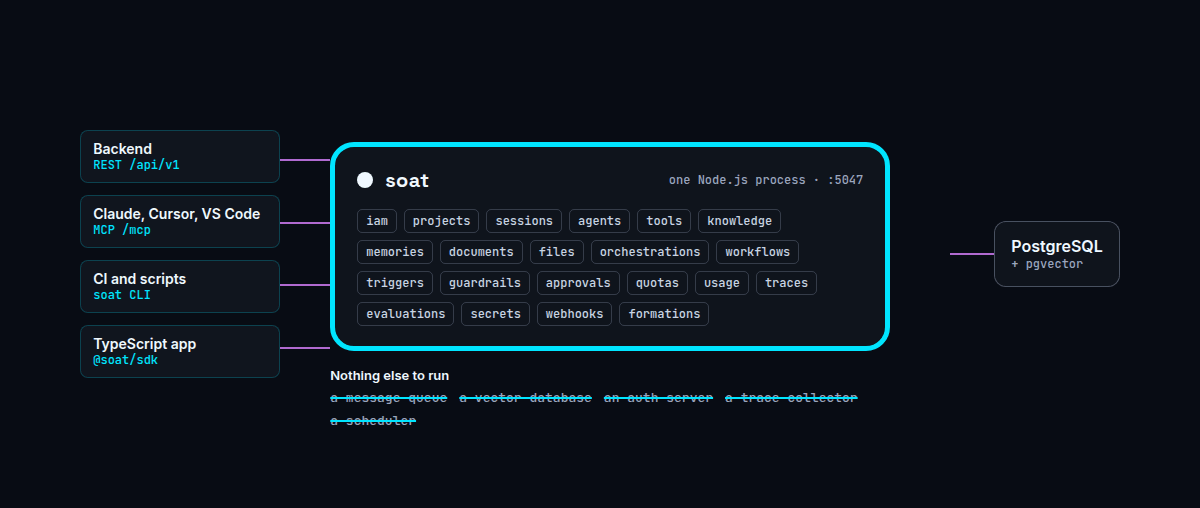
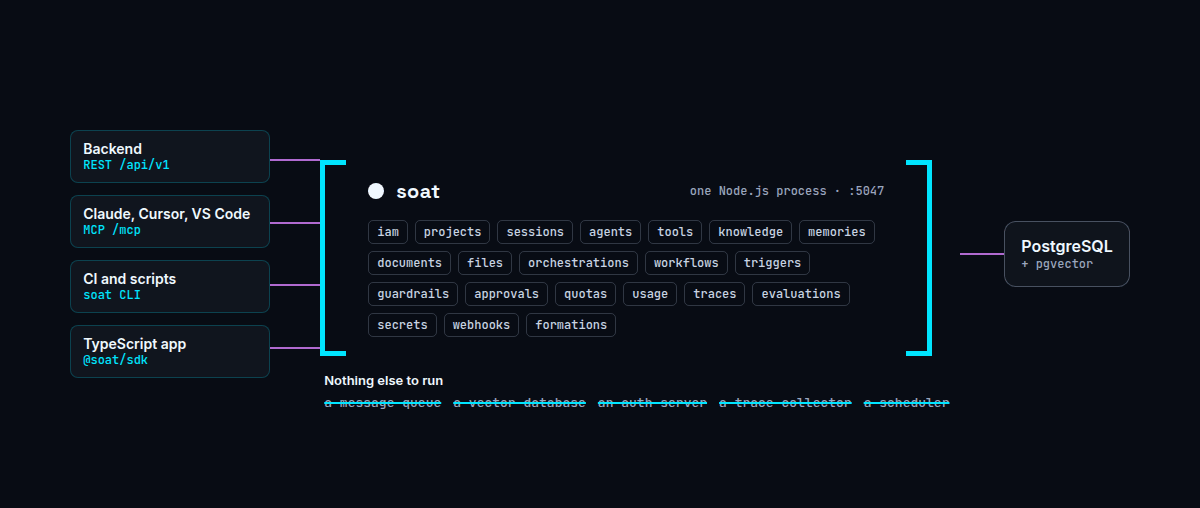
feat(brand): draw the mark as brackets, [•]
A closed rounded square with a centred dot reads as another company's
camera glyph, most of all when the symbol stands alone (favicon, avatar,
the closing band). The process is now a core held between two square
brackets: the open sides are what make the mark SOAT's.

- Wordmark S[•]AT: the brackets are punctuation, drawn lighter than the
  letters (96 units against the 132-unit stem), with 200-unit arms and a
  110-unit core. Chosen side by side at 16–64 px against heavier strokes,
  which close into a box at small sizes, and against shorter arms, which
  read as two I's.
- Symbol [•] with the wordmark's proportions; favicon.svg is a
  pixel-aligned 16 px cut (2 px stems, 4 px arms, 3 px core radius).
- Rasters regenerated from the masters: avatar (soat-logo.png), transparent
  symbol, favicon.ico, apple-touch-icon, the 192 px manifest icon, the social
  card and the README diagram, which now draw the process between brackets.
- The closing band of the homepage no longer shows the mark at scale.
- soat-design: the boundary is a pair of brackets; never close them into
  a box.

Claude-Session: https://claude.ai/code/session_011tJHFPscpAX6kabaQeNigZ

diff --git a/packages/website/src/components/HomepageFinalCta/styles.module.css b/packages/website/src/components/HomepageFinalCta/styles.module.css
@@ -6,49 +6,6 @@
   text-align: center;
 }
 
-/* The symbol, large and faint, cropped by the right edge so its core sits
-   clear of the closing statement: the one place the page shows the mark at
-   scale. The band is dark in both colour modes. */
-.backdrop {
-  position: absolute;
-  inset: 0;
-  display: flex;
-  align-items: center;
-  justify-content: flex-end;
-  pointer-events: none;
-}
-
-.mark {
-  width: min(720px, 120vw);
-  flex: none;
-  margin-right: max(-260px, -20vw);
-  opacity: 0.16;
-  animation: breathe 14s ease-in-out infinite alternate;
-}
-
-.backdrop::after {
-  content: '';
-  position: absolute;
-  inset: 0;
-  background: radial-gradient(
-    ellipse at 80% 50%,
-    rgba(8, 12, 20, 0) 0%,
-    rgba(8, 12, 20, 0.6) 55%,
-    #080c14 90%
-  );
-}
-
-@keyframes breathe {
-  from {
-    transform: scale(1);
-    opacity: 0.12;
-  }
-  to {
-    transform: scale(1.04);
-    opacity: 0.18;
-  }
-}
-
 .inner {
   position: relative;
 }
@@ -76,12 +33,6 @@
   justify-content: center;
   align-items: center;
   gap: 1rem;
-}
-
-@media (prefers-reduced-motion: reduce) {
-  .mark {
-    animation: none;
-  }
 }
 
 @media screen and (max-width: 996px) {

diff --git a/packages/website/src/components/HomepageFinalCta/index.tsx b/packages/website/src/components/HomepageFinalCta/index.tsx
@@ -1,5 +1,4 @@
 import Link from '@docusaurus/Link';
-import useBaseUrl from '@docusaurus/useBaseUrl';
 import PrimaryAction from '@site/src/components/HomepageShared/PrimaryAction';
 import shared from '@site/src/components/HomepageShared/styles.module.css';
 import Heading from '@theme/Heading';
@@ -11,14 +10,6 @@ import styles from './styles.module.css';
 const HomepageFinalCta = (): React.ReactNode => {
   return (
     <section className={clsx(shared.bleed, shared.dark, styles.section)}>
-      <div className={styles.backdrop} aria-hidden="true">
-        <img
-          className={styles.mark}
-          src={useBaseUrl('/img/brand/soat-symbol-dark.svg')}
-          alt=""
-          loading="lazy"
-        />
-      </div>
       <div className={clsx('container', styles.inner)}>
         <Heading as="h2" className={styles.title}>
           Stop rebuilding agent infrastructure.

diff --git a/packages/app/src/lib/brandAssets.ts b/packages/app/src/lib/brandAssets.ts
@@ -8,8 +8,8 @@ import wordmarkLight from '@/assets/brand/soat-wordmark-light.svg';
 // `packages/website/static/img/brand/` byte for byte
 // (`tests/harness/appBrandAssets.test.mjs`).
 export const BRAND_ASSETS = {
-  /** The S◻AT wordmark: the O is the process boundary with its core. */
+  /** The S[•]AT wordmark: the O is the core held between two brackets. */
   wordmark: { light: wordmarkLight, dark: wordmarkDark },
-  /** The boundary-and-core symbol, for square placements. */
+  /** The [•] symbol, for square placements. */
   symbol: { light: symbolLight, dark: symbolDark },
 } as const;

diff --git a/packages/website/src/theme/Navbar/Logo/index.tsx b/packages/website/src/theme/Navbar/Logo/index.tsx
@@ -6,7 +6,7 @@ import type * as React from 'react';
 import styles from './styles.module.css';
 
 /**
- * The navbar brand: the S◻AT wordmark from the brand masters, in the variant
+ * The navbar brand: the S[•]AT wordmark from the brand masters, in the variant
  * for the active colour mode. It keeps the class the stock component renders,
  * so the theme's navbar layout applies.
  */

diff --git a/.claude/skills/soat-design/tokens/colors.css b/.claude/skills/soat-design/tokens/colors.css
@@ -41,7 +41,7 @@
   --color-accent: #8e44ad; /* Deep Violet */
   --color-glow: #00e5ff; /* decorative only in light mode */
 
-  /* The mark: the process boundary and its core (S◻AT and the symbol).
+  /* The mark: the brackets and the core they hold (S[•]AT and [•]).
      Graphic colours, 3:1 minimum on the page. */
   --process-boundary: #1a73e8;
   --process-core: #1a1f2c;

diff --git a/.claude/skills/soat-design/guidelines/brand-logo.card.html b/.claude/skills/soat-design/guidelines/brand-logo.card.html
@@ -1,4 +1,4 @@
-<!-- @dsCard group="Brand" viewport="760x300" name="The mark" subtitle="S◻AT wordmark and the boundary-and-core symbol, from the SVG masters" -->
+<!-- @dsCard group="Brand" viewport="760x300" name="The mark" subtitle="S[•]AT wordmark and the [•] symbol, from the SVG masters" -->
 <!DOCTYPE html>
 <html lang="en" data-theme="dark">
 <head>

diff --git a/.claude/skills/soat-design/readme.md b/.claude/skills/soat-design/readme.md
@@ -43,23 +43,24 @@ SOAT's voice is **a systems engineer describing something powerful** — technic
 
 ## Visual Foundations
 
-The system descends from the mark: **one process** — a boundary with a core inside it. Everything an agent needs runs inside one self-hosted Node.js process on PostgreSQL, and the mark, the diagrams and the imagery all draw that boundary. Visuals should feel like *plumbing for intelligence* — invisible yet indispensable.
+The system descends from the mark: **one process** — a core held between two brackets, `[•]`. Everything an agent needs runs inside one self-hosted Node.js process on PostgreSQL, and the mark, the diagrams and the imagery all draw that boundary. Visuals should feel like *plumbing for intelligence* — invisible yet indispensable.
 
 ### The mark
 
 | Element | Role | Token |
 |---|---|---|
-| **Boundary** | the process: a rounded square, one stroke | `--process-boundary` (Core Cyan dark, Electric Blue light) |
+| **Boundary** | the process: a pair of square brackets, one flat colour | `--process-boundary` (Core Cyan dark, Electric Blue light) |
 | **Core** | the one thing it runs, centred | `--process-core` (Starlight White dark, Deep Space Grey light) |
 | **Inlets** | the four callers (REST, MCP, CLI, SDK) entering the boundary | diagrams only, `--soat-violet` lines |
 | **Strike** | a line through what you do not have to run | diagrams only, Core Cyan |
 
-- **Masters** live in `packages/website/static/img/brand/`: `soat-wordmark-{dark,light,mono}.svg` (S◻AT, outlined Space Grotesk 700 with the O replaced by boundary and core) and `soat-symbol-{dark,light,mono}.svg`, plus `favicon.svg` (a 16 px pixel-aligned cut that follows the colour scheme). Use a master; never retype the wordmark or redraw the symbol.
+- **Masters** live in `packages/website/static/img/brand/`: `soat-wordmark-{dark,light,mono}.svg` (`S[•]AT`, outlined Space Grotesk 700 with the O replaced by the brackets and core; the brackets are punctuation, drawn lighter than the letters — 96 units against the 132-unit stem) and `soat-symbol-{dark,light,mono}.svg`, plus `favicon.svg` (a 16 px pixel-aligned cut that follows the colour scheme). Use a master; never retype the wordmark or redraw the symbol.
 - **Wordmark first.** Headers and navbars show the wordmark alone; the symbol stands in only where the space is square (favicon, avatar, app icon, empty states).
 - **Solid, never a gradient.** The boundary is one flat colour. The brand gradient belongs to buttons and decorative bars, not to the mark.
-- **Clear space:** the boundary's stroke width on every side of the symbol; the height of the O around the wordmark. **Minimum size:** wordmark 16 px tall, symbol 16 px (the favicon cut).
+- **Never close the brackets into a box.** A closed rounded square with a centred dot reads as another company's camera glyph; the open sides are what make the mark SOAT's.
+- **Clear space:** the bracket's arm length on every side of the symbol; the height of the O around the wordmark. **Minimum size:** wordmark 16 px tall, symbol 16 px (the favicon cut).
 - **Rasters:** `static/img/soat-logo.png` is the 512 px avatar (symbol on Space Black) used as the MCP server icon and in JSON-LD; `soat-logo-no-bg.png` is the transparent symbol in Electric Blue; `favicon.ico` carries 16/32/48 px.
-- **Diagrams extend the mark:** a caller enters the boundary through an inlet, PostgreSQL sits outside it, and what SOAT replaces is struck. Draw them from real module names, ports and commands.
+- **Diagrams extend the mark:** the process is drawn between brackets, a caller enters through an inlet, PostgreSQL sits outside it, and what SOAT replaces is struck. Draw them from real module names, ports and commands.
 
 **Theme strategy — dual-theme by design.** SOAT does not invert; it *shifts the functional hue*. **Dark mode is the native environment** (deep space, luminous accents). Light mode is accessibility-first on white.
 

diff --git a/.claude/skills/soat-design/SKILL.md b/.claude/skills/soat-design/SKILL.md
@@ -16,6 +16,6 @@ Key starting points:
 - `components/` — React primitives: Button, Badge, MethodBadge, Tag, Input, Switch, Card, CodeBlock.
 - `guidelines/` — foundation specimen cards (color, type, spacing, brand).
 
-> The mark (S◻AT wordmark and boundary-and-core symbol) has SVG masters in `packages/website/static/img/brand/`; other imagery lives in `packages/website/static/img/`. This skill holds tokens, components and specimen cards only.
+> The mark (`S[•]AT` wordmark and `[•]` symbol) has SVG masters in `packages/website/static/img/brand/`; other imagery lives in `packages/website/static/img/`. This skill holds tokens, components and specimen cards only.
 
 Brand essentials: dark-mode-first, luminous (cyan/violet glow on deep space backgrounds); Space Grotesk headings + Inter body + JetBrains Mono code; engineered, precise, confident voice; NO emojis.
